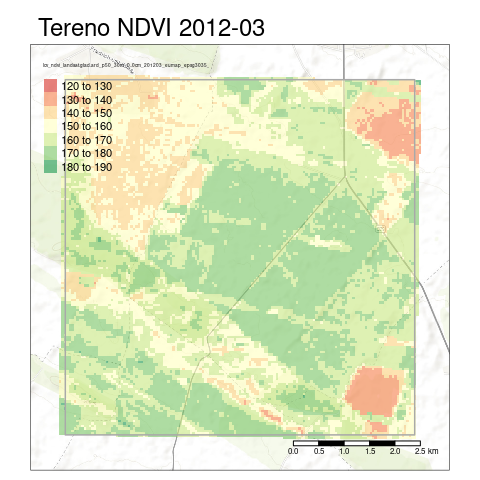
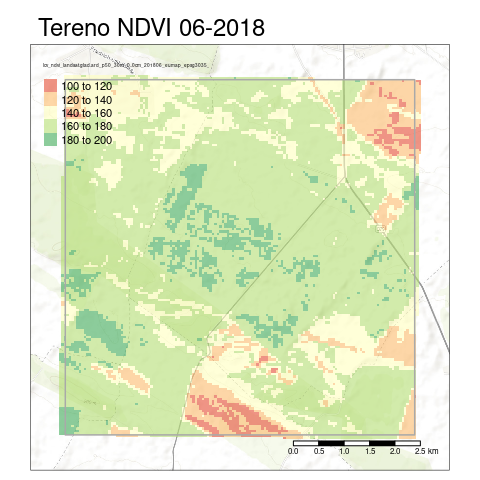
Fixed Subset of ODS layers for visualization

diff --git a/code/download_ODS.md b/code/download_ODS.md
@@ -141,17 +141,20 @@ Show two sample NDVI maps
 tif_list = list.files(Highres_dir, pattern = ".tif$",
                       full.names = TRUE)
 site_NDVI_stk = rast(tif_list)
+# Find only 2018 layers
+names_2018 = names(site_NDVI_stk)[grepl("2018", names(site_NDVI_stk))]
+site_NDVI_2018 = subset(site_NDVI_stk, names_2018)
 
 tmap_mode("plot")
 # read OSM raster data
 osm_GER <- read_osm(st_bbox(site_sf),
                     type = "esri-topo", ext=1.2)
 
-# Plot two sample seasons:
-for (s in c(13, 15)) {
-  site_NDVI = site_NDVI_stk[[s]]
+# Plot two sample seasons, Jun and Dec, 2018:
+for (s in c(2, 4)) {
+  site_NDVI = site_NDVI_2018[[s]]
   yrmo = unlist(strsplit(names(site_NDVI), split = "_", fixed = TRUE))[7]
-  yrmo = paste(substr(yrmo, 1, 4), substr(yrmo, 5, 6), sep="-")
+  yrmo = paste(substr(yrmo, 5, 6), substr(yrmo, 1, 4), sep="-")
   ttl = paste(site, "NDVI", yrmo)
   
   m = tm_shape(osm_GER) +
